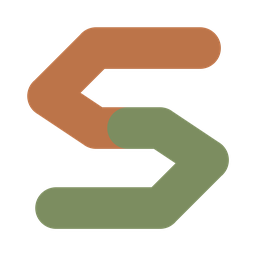
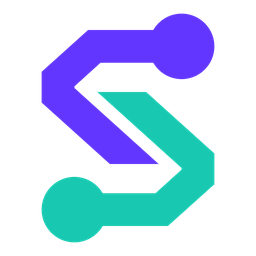
Add the new Synx symbol

diff --git a/docs/site/style.css b/docs/site/style.css
@@ -25,6 +25,7 @@ header {
 header a { color: var(--paper); text-decoration: none; }
 header a:hover { color: #e9b48f; }
 header .home { font-weight: 700; font-size: 1.2rem; }
+header .home img { width: 1.5rem; height: 1.5rem; margin-right: 0.45rem; vertical-align: -0.3rem; }
 header .version { color: #a9a49a; font-size: 0.85rem; }
 header nav { display: flex; flex-wrap: wrap; gap: 1.1rem; }
 .layout {

diff --git a/docs/site/build.py b/docs/site/build.py
@@ -18,6 +18,8 @@ import sys
 DOCS = Path(__file__).resolve().parent.parent
 ROOT = DOCS.parent
 STYLE = Path(__file__).resolve().parent / "style.css"
+MARK = Path(__file__).resolve().parent / "synx-mark.svg"
+VERSION = re.search(r"project\(synx VERSION ([0-9.]+)", (ROOT / "CMakeLists.txt").read_text(encoding="utf-8")).group(1)
 
 # Pages in the site, relative to docs/. Folders include every .md file.
 SOURCES = [
@@ -225,9 +227,10 @@ def page(title, body, toc, depth):
 <meta name="viewport" content="width=device-width, initial-scale=1">
 <title>{escape(title)} - Synx</title>
 <link rel="stylesheet" href="{up}style.css">
+<link rel="icon" type="image/svg+xml" href="{up}synx-mark.svg">
 </head>
 <body>
-<header><a class="home" href="{up}index.html">Synx</a> <span class="version">0.1.0</span><nav>{nav}</nav></header>
+<header><a class="home" href="{up}index.html"><img src="{up}synx-mark.svg" alt="">Synx</a> <span class="version">{VERSION}</span><nav>{nav}</nav></header>
 <div class="layout">
 <main>
 {body}
@@ -263,6 +266,7 @@ def main():
         target.write_text(page(title or rel.stem, body, toc, len(rel.parts) - 1), encoding="utf-8")
         count += 1
     shutil.copyfile(STYLE, out_dir / "style.css")
+    shutil.copyfile(MARK, out_dir / "synx-mark.svg")
     for name in COPIES:
         shutil.copyfile(DOCS / name, out_dir / name)
     broken = check_links(out_dir)
